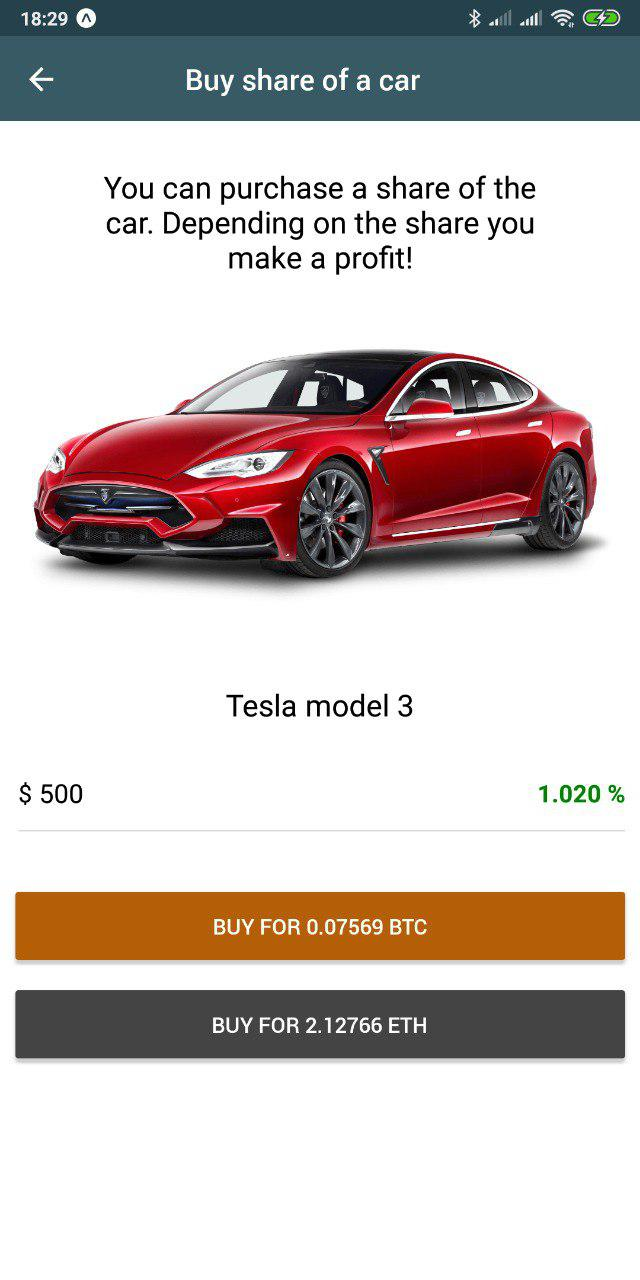
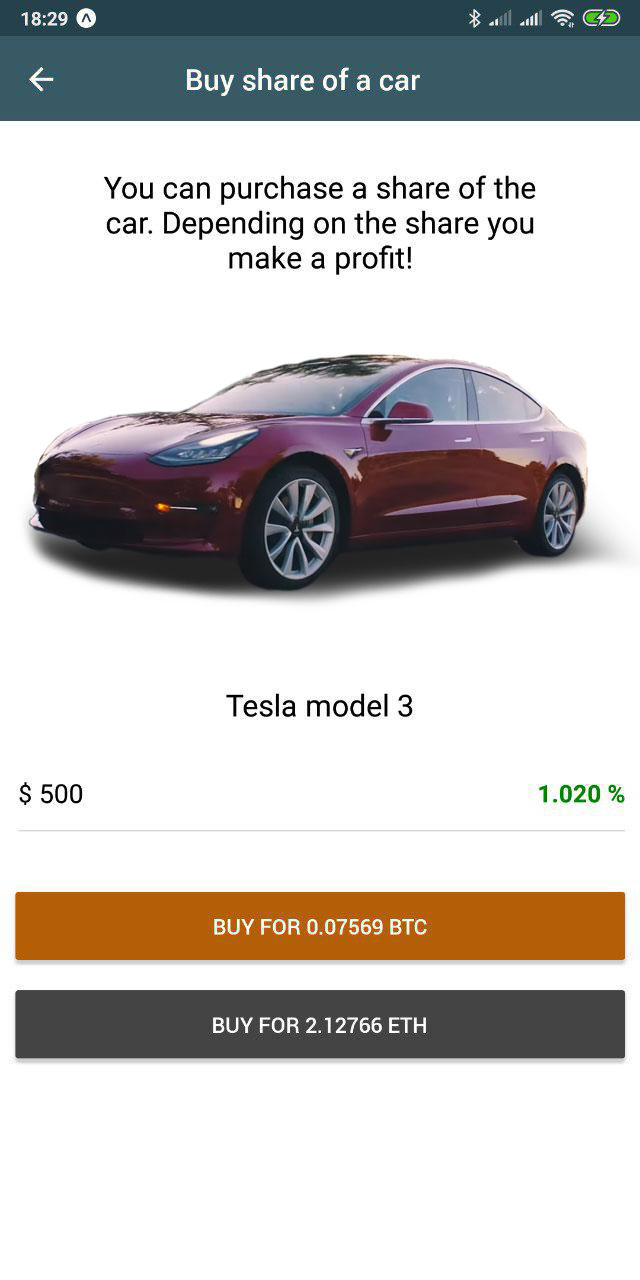
Заменил теслу на картинках

diff --git a/assets/js/script.js b/assets/js/script.js
@@ -22,10 +22,10 @@ jQuery(document).ready(function ($) {
     var counter = -1;
     var path = '/assets/img/mobile/';
     var files = [
-        '1.jpg',
-        '2.jpg',
-        '3.jpg',
-        '4.jpg'
+        '1.jpg?v=1',
+        '2.jpg?v=1',
+        '3.jpg?v=1',
+        '4.jpg?v=1'
     ];
 
     var images = [];

diff --git a/index.php b/index.php
@@ -111,7 +111,7 @@ $params = [
             <div class="col-md-offset-1 col-md-4 hidden-xs hidden-sm">
                 <div class="hand-container">
                     <img class="iphone-hand img_res wow animated bounceInUp" data-wow-duration="1.2s"
-                         src="assets/img/iphone_hand.png?v=1"></img>
+                         src="assets/img/iphone_hand.png?v=1.1"></img>
                     <div class="clearfix"></div>
                 </div>
             </div>
